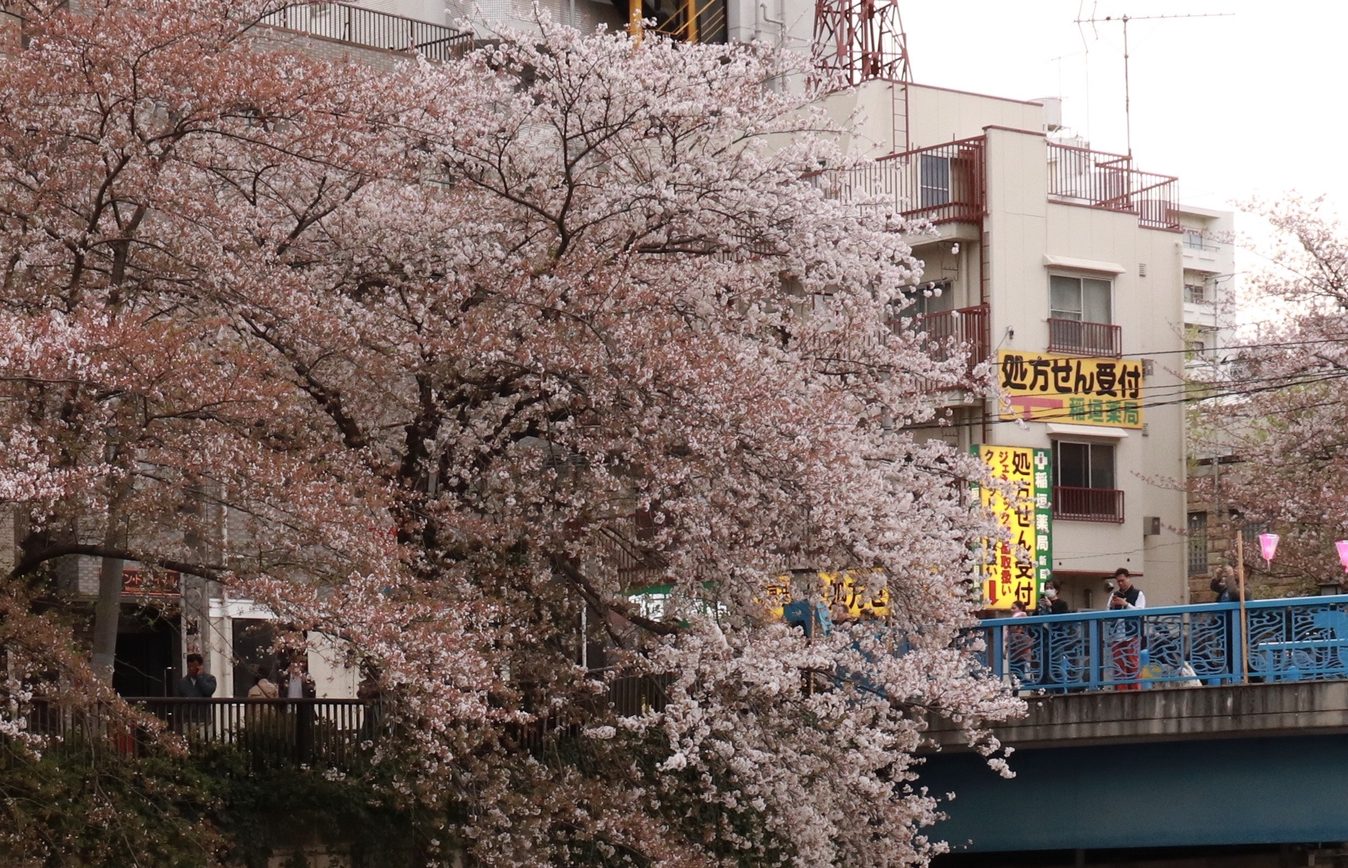
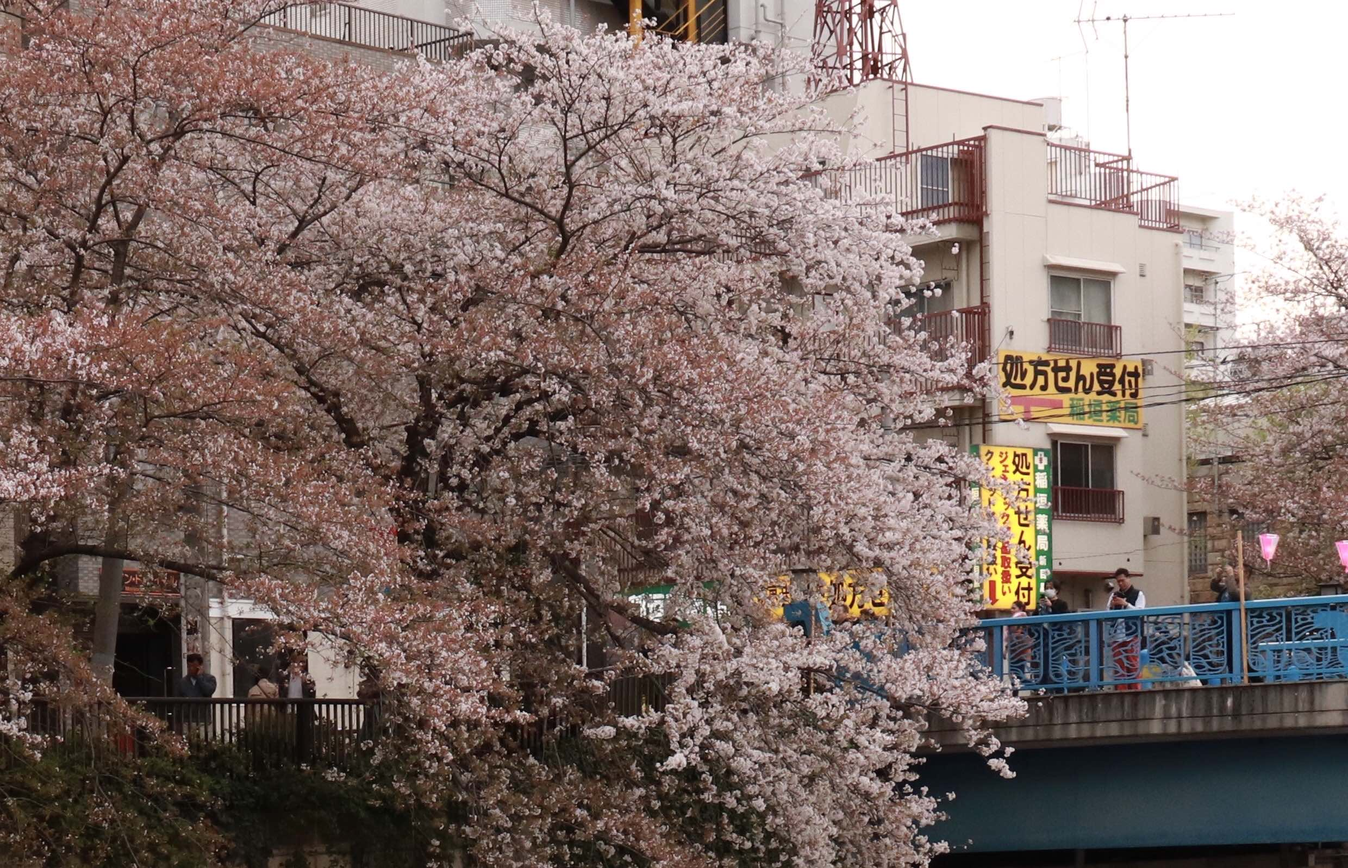
landing background media resize

diff --git a/css/components/landing.css b/css/components/landing.css
@@ -2,7 +2,7 @@
   width: 100%;
   height: 100vh;
   margin-top: -62px;
-  background-image: linear-gradient(rgba(0,0,0,0.15), rgba(0,0,0,0.15)), url('https://res.cloudinary.com/dk6h1ydhr/image/upload/q_auto:low/v1600597543/cherry-blossom_tymcv5.jpg');
+  background-image: linear-gradient(rgba(0,0,0,0.15), rgba(0,0,0,0.15)), url('../../images/cherry-blossom.jpg');
   background-repeat: no-repeat;
   background-size: cover;
   background-position-y: center;
